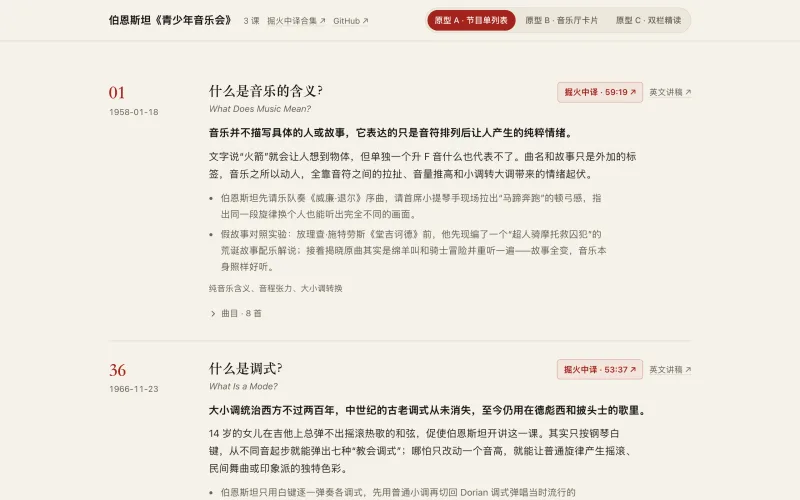
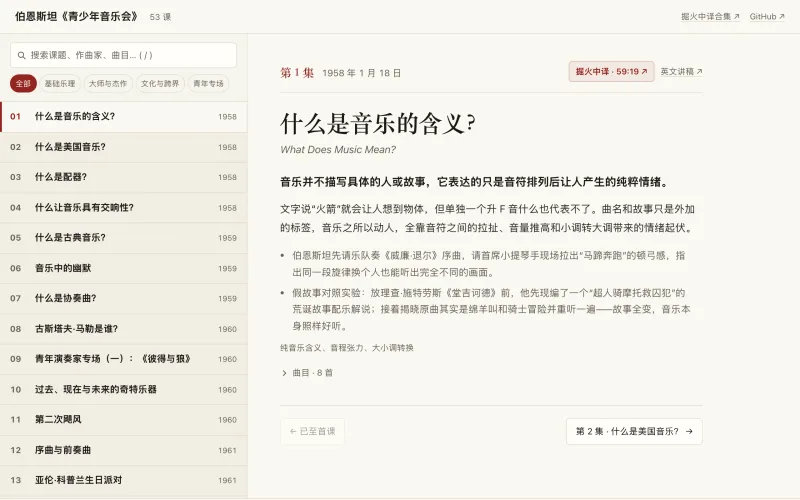
Update bernstein-ypc profile entry for full 53 episodes

diff --git a/README.md b/README.md
@@ -9,7 +9,7 @@
 
 | 项目 | 预览 | 简介 | 链接 |
 |---|---|---|---|
-| 伯恩斯坦《青少年音乐会》 · Young People's Concerts | <img width="320" alt="伯恩斯坦青少年音乐会网页预览" src="./thumbs/portfolio-bernstein-ypc.webp"> | 提炼伯恩斯坦《青少年音乐会》核心观点与现场实验，附 B 站掘火中译视频、可折叠试听曲目单与三种阅读原型。 | [Demo](https://xiaosang.cc/bernstein-ypc/) · [Repo](https://github.com/holynova/bernstein-ypc) |
+| 伯恩斯坦《青少年音乐会》 · Young People's Concerts | <img width="320" alt="伯恩斯坦青少年音乐会网页预览" src="./thumbs/portfolio-bernstein-ypc.webp"> | 全 53 课双栏导览：核心观点与现场实验精讲、全文搜索与分类筛选、B 站掘火中译视频与可折叠试听曲目单。 | [Demo](https://xiaosang.cc/bernstein-ypc/) · [Repo](https://github.com/holynova/bernstein-ypc) |
 | 传奇世界幸存者 · Woool Survivor | <img width="320" alt="传奇世界幸存者实机 Boss 战预览" src="./thumbs/portfolio-woool-survivor-game.webp"> | 战法道三职业、原版技能特效与怪物素材、六大城市要塞地图及四档锯齿难度曲线。 | [Demo](https://xiaosang.cc/woool-survivor-game/) · [Repo](https://github.com/holynova/woool-survivor-game) |
 | Prompt 收藏册 · Prompt Library | <img width="320" alt="Prompt 收藏册原文与中文对照页面预览" src="./thumbs/portfolio-x-prompt-library.webp"> | 27组、71条AI提示词，保留出处与原文，附28份中文译文、分类搜索与逐条复制。 | [Demo](https://xiaosang.cc/x-prompt-library/) · [Repo](https://github.com/holynova/x-prompt-library) |
 | 概念探险队 · Concept Atlas | <img width="320" alt="概念探险队知识漫画图鉴预览" src="./thumbs/portfolio-concept-atlas.webp"> | 60张竖版知识漫画，一图解释术语背后的机制，支持分类、搜索与原图下载。 | [Demo](https://xiaosang.cc/concept-atlas/) · [Repo](https://github.com/holynova/concept-atlas) |
